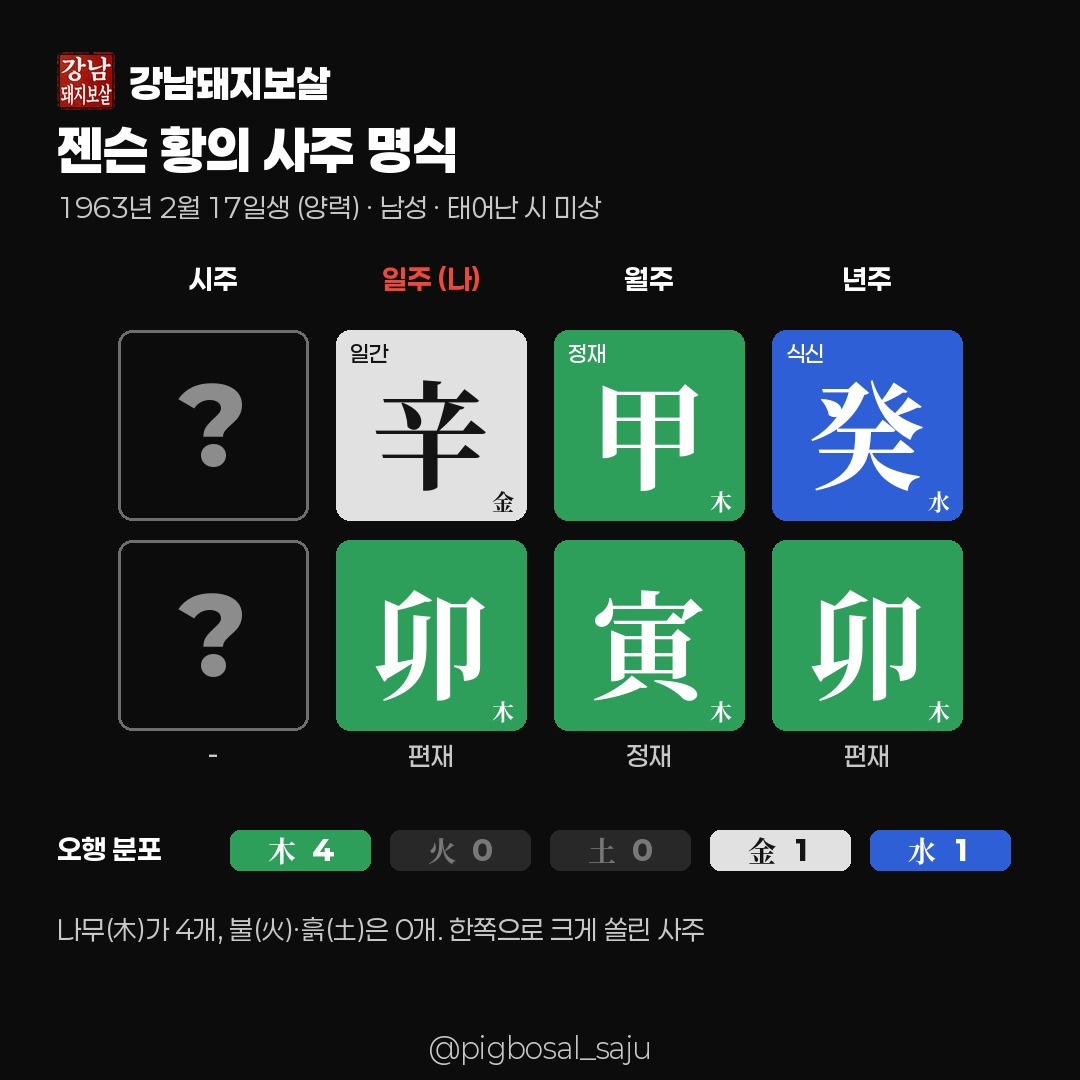
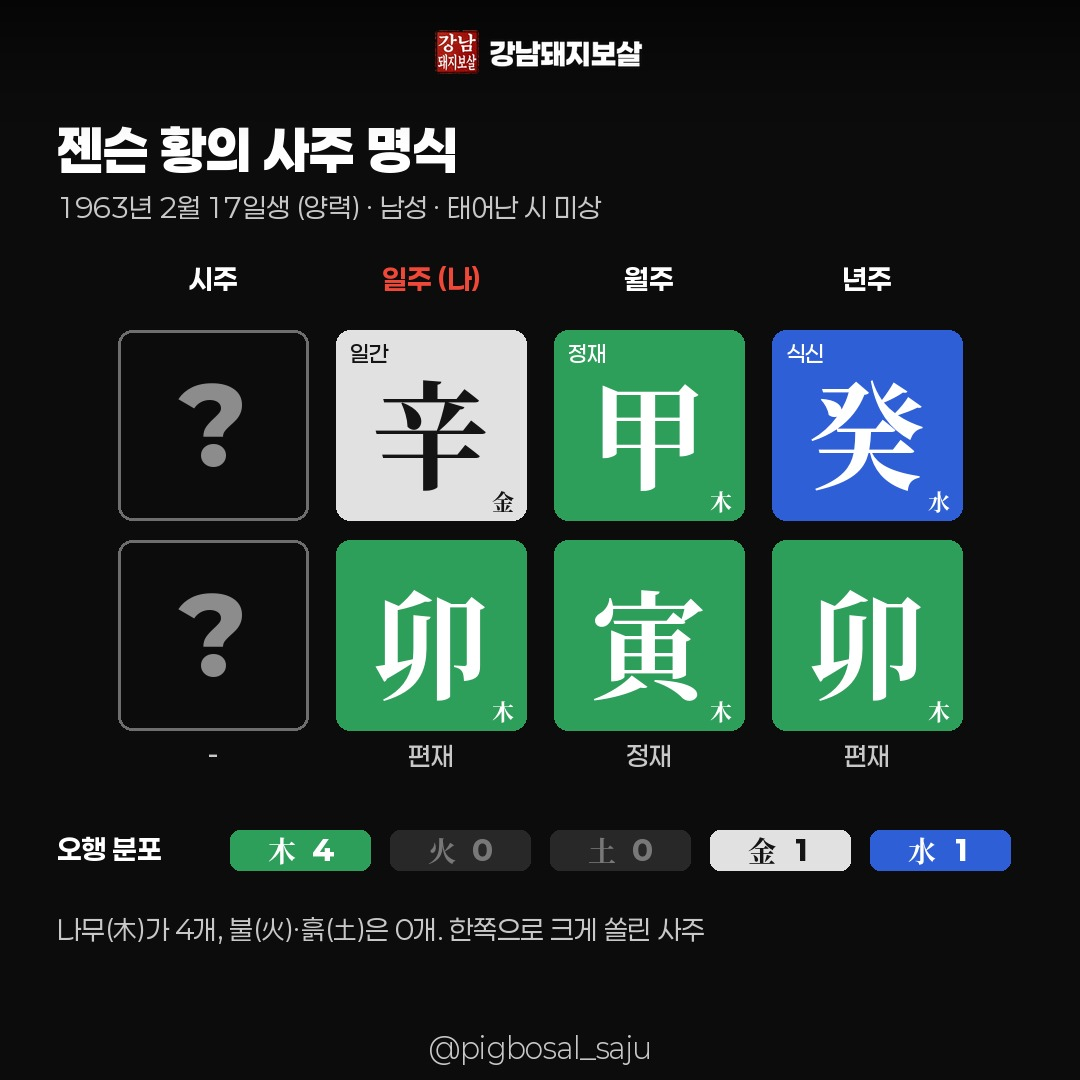
로고를 모든 카드 상단 중앙 고정으로 분리
Claude-Session: https://claude.ai/code/session_01R39AKJLY1tLsuohGnm6TD8

Changed region(s): [[0.0306, 0.0306, 0.3056, 0.1222], [0.3972, 0.0306, 0.6111, 0.0917]]

diff --git a/cardgen/render_cards.py b/cardgen/render_cards.py
@@ -146,6 +146,18 @@ def logo(im, x, y, center=False):
     return lg.height
 
 
+def brand_top(im, h=44, y=30):
+    """모든 카드 공통: 상단 중앙 고정 로고 (본문 레이아웃과 분리)"""
+    shade = Image.new('L', (1, 150))
+    for i in range(150):
+        shade.putpixel((0, i), int(150 * (1 - i / 150) ** 1.6))
+    top = Image.new('RGBA', (W, 150), (0, 0, 0, 255)); top.putalpha(shade.resize((W, 150)))
+    im.alpha_composite(top, (0, 0))
+    lg = Image.open(os.path.join(ASSET, 'logo.png')).convert('RGBA')
+    lg = lg.resize((round(lg.width * h / lg.height), h), Image.LANCZOS)
+    im.alpha_composite(lg, ((W - lg.width) // 2, y))
+
+
 def handle(d, text='@pigbosal_saju'):
     d.text((W / 2, 1059), text, font=F('3Light', 28), fill=GRAY, anchor='ms')
 
@@ -161,7 +173,7 @@ def slide_cover(s, c):
     y_end = 960
     lh = 92
     y = y_end - lh * (len(lines) - 1)
-    logo(im, 57, y - lh - 40)
+    pass  # 로고는 brand_top()에서 상단 중앙 고정
     for ln in lines:
         draw_rich(d, 55, y, parse_rich(ln), f, 74, base=WHITE, hi=RED)
         y += lh
@@ -189,7 +201,7 @@ def slide_body(s, c, idx):
         y -= 64
         hy = y
     y_logo = (hy - 22) if s.get('heading') else (y - 20)
-    logo(im, 57, y_logo - Image.open(os.path.join(ASSET, 'logo.png')).height)
+    pass  # 로고는 brand_top()에서 상단 중앙 고정
     if s.get('heading'):
         draw_rich(d, 55, hy + 30, parse_rich(s['heading']), F('9Black', 44), 44, base=RED, hi=WHITE)
         y = hy + 64
@@ -217,7 +229,7 @@ def pillar_box(im, d, x, y, sz, ch, el):
 def slide_chart(s, c, idx):
     im = Image.new('RGBA', (W, H), (12, 12, 12, 255))
     d = ImageDraw.Draw(im)
-    logo(im, 57, 52)
+    pass  # 로고는 brand_top()에서 상단 중앙 고정
     d.text((57, 170), s['title'], font=F('9Black', 52), fill=WHITE, anchor='ls')
     d.text((57, 218), s['sub'], font=F('4Regular', 27), fill=GRAY, anchor='ls')
     cols = ['시주', '일주', '월주', '년주']
@@ -268,7 +280,7 @@ def slide_chart(s, c, idx):
 def slide_daeun(s, c, idx):
     im = Image.new('RGBA', (W, H), (12, 12, 12, 255))
     d = ImageDraw.Draw(im)
-    logo(im, 57, 52)
+    pass  # 로고는 brand_top()에서 상단 중앙 고정
     draw_rich(d, 55, 170, parse_rich(s['heading']), F('9Black', 50), 50, base=RED, hi=WHITE)
     du = c['daeun']  # [[age, '癸丑'], ...]
     n = len(du); bw, gap = 112, 10
@@ -320,7 +332,7 @@ def slide_closing(s, c, idx):
     y = 700
     for ln in s['answer']:
         d.text((W / 2, y), ln, font=F('7Bold', 40), fill=RED, anchor='ms'); y += 60
-    logo(im, 0, y + 20, center=True)
+    pass  # 로고는 brand_top()에서 상단 중앙 고정
     if s.get('disclaimer'):
         d.text((W / 2, 1000), s['disclaimer'], font=F('3Light', 22), fill=(130, 130, 130), anchor='ms')
     handle(d)
@@ -341,7 +353,10 @@ def main(cfg_path, outdir, fmt='jpg'):
     for i, s in enumerate(cfg['slides'], 1):
         if s.get('photo') and not os.path.isabs(s['photo']):
             s = dict(s, photo=os.path.join(base, s['photo']))
-        im = fn[s['type']](s, cfg['saju'], i).convert('RGB')
+        im = fn[s['type']](s, cfg['saju'], i).convert('RGBA')
+        if s['type'] != 'outro':
+            brand_top(im)
+        im = im.convert('RGB')
         p = os.path.join(outdir, f"{i:02d}.{fmt}")
         if fmt == 'jpg':
             im.save(p, 'JPEG', quality=92, optimize=True)  # 인스타 API는 JPEG만 허용
